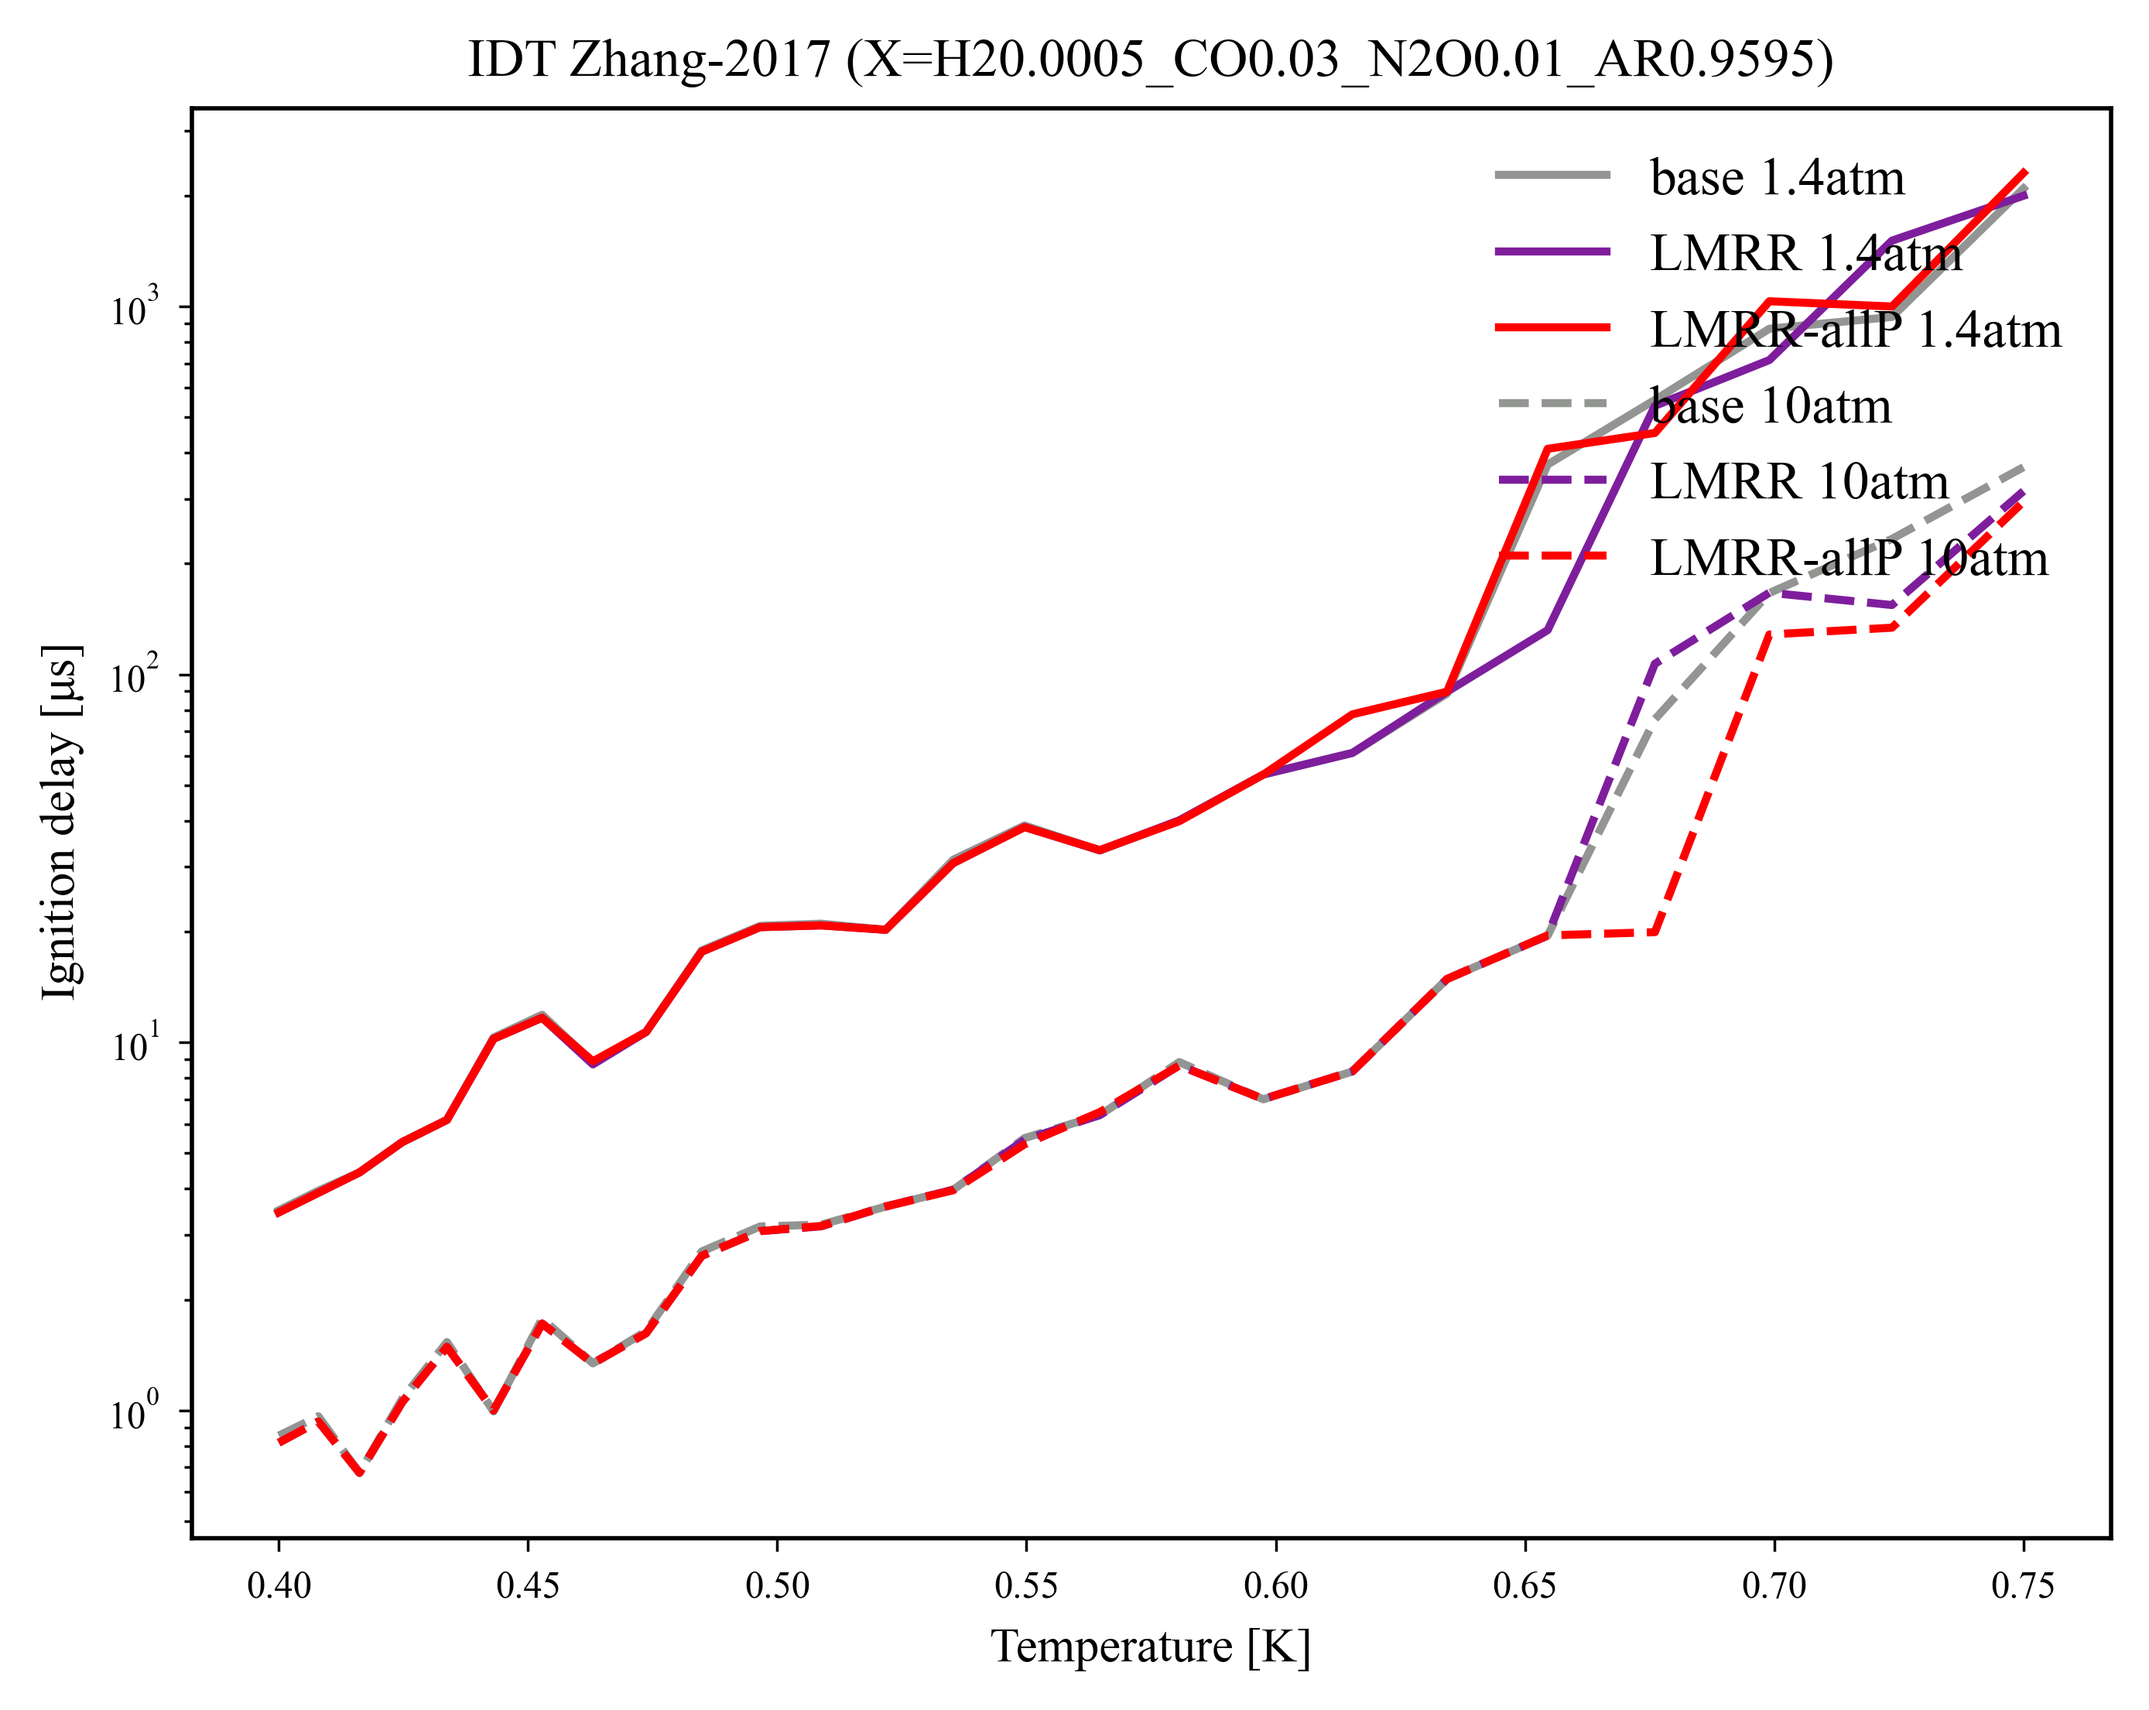
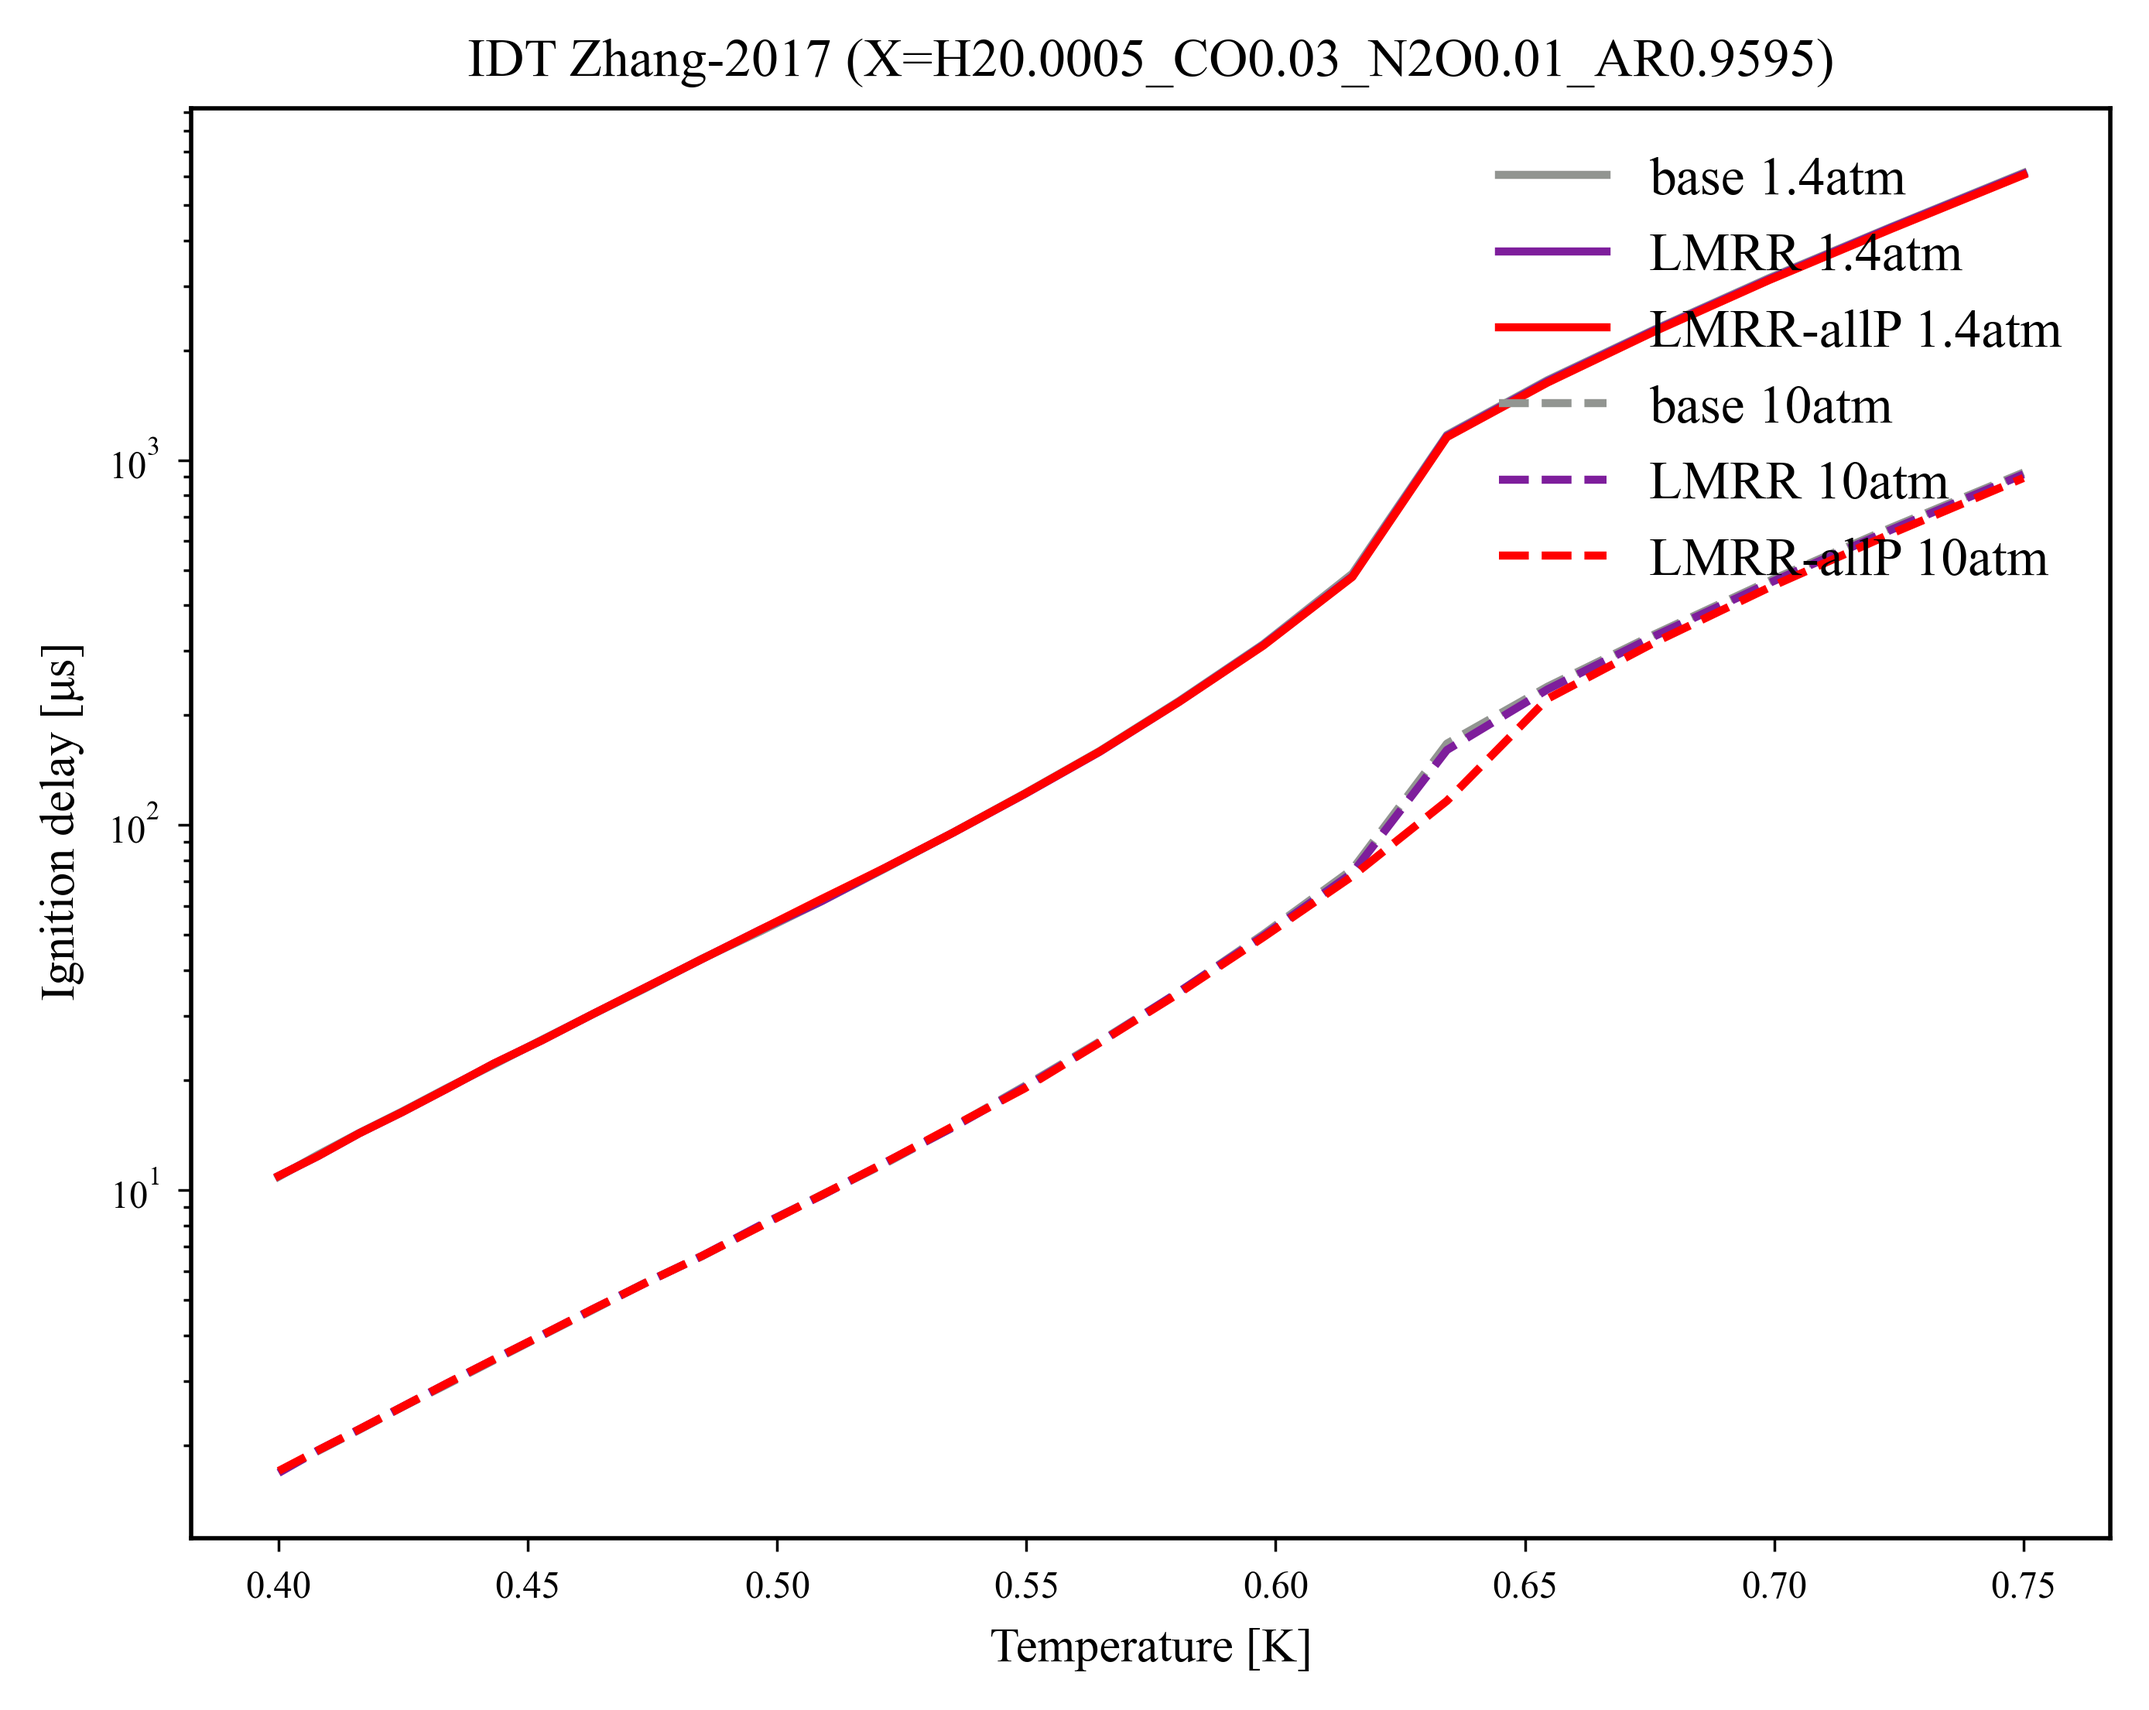
sort-of updated JSR, Shock Tube, and IDT (unfinished)

diff --git a/USSCI/simulateshocktubeShao_USSCI.py b/USSCI/simulateshocktubeShao_USSCI.py
@@ -6,6 +6,7 @@ import matplotlib.pyplot as plt
 import pandas as pd
 import argparse
 import matplotlib as mpl
+import numpy as np
 
 parser = argparse.ArgumentParser()
 parser.add_argument('--figwidth', type=float, help="figwidth = ")
@@ -85,50 +86,44 @@ models = {
     #             },
 }
 
-name = 'ShockTube_H2O_multimech'
-save_plots = True
+conditions = {
+    'Zhang-2017': {
+        # 'X': {'N2O':0.02, 'AR': 0.98},
+        'X': {'H2':0.0005, 'CO': 0.03, 'N2O': 0.01, 'AR': 0.9595},
+        'T': [11],
+        # 'P': [3,12],
+        'P': [1.4,10],
+        'phi_list': [0.063],
+                },
+}
 
-temps = [800,1100,1500,2000]
-pressures=[1,2,5,10]
-phi_list = [0.8,1.0,1.22,1.4]
-alpha_list = [1.0,0.8,0.6,0.4,0.2,0.0]
-a_st = [0.75,0.7,0.65,0.6,0.55,0.5]
+
+##Shao Mixture
+# # X_H2O2 = 1163e-6
+# # X_H2O = 1330e-6
+# # X_O2 = 665e-6
+# # X_CO2= 0.2*(1-X_H2O2-X_H2O-X_O2)
+# # X_Ar = 1-X_CO2
+# # X = {'H2O2':X_H2O2, 'H2O':X_H2O, 'O2':X_O2, 'CO2':X_CO2, 'AR':X_Ar}
+# #Ronney Mixture
+# x_fuel = (phi*(1/0.75)*0.21)/(1+phi*(1/0.75)*0.21)
+# x_o2 = 0.21*(1-x_fuel)
+# x_n2 = 0.79*(1-x_fuel)
 
 def cp(T,P,X,model):
   gas_stream = ct.Solution(model)
   gas_stream.TPX = T, P*1e5, {X:1}
   return gas_stream.cp_mole # [J/kmol/K]
 
-for phi in phi_list:
-    for T in temps:
-        for P in pressures:
-            fig, ax = plt.subplots(1, len(models.keys()),figsize=(args.figwidth, args.figheight))
-            for z, n in enumerate(models):
-                mech = n
-                # import matplotlib.ticker as ticker
-                # ax[z].xaxis.set_major_locator(ticker.MultipleLocator(50))
-                # ax[z].xaxis.set_major_formatter(ticker.StrMethodFormatter("{x:.0f}"))
-                # ax[z].yaxis.set_major_locator(ticker.MultipleLocator(0.03))
-                # ax[z].yaxis.set_major_formatter(ticker.StrMethodFormatter("{x:.2f}"))
-
-                # path="PCI-ESSCI/graph_reading"
-                # shao_data = pd.read_csv(path+'/7 SP H2O X vs t (Shock Tube) (Shao)/expData.csv')
-                # ax[z].plot(shao_data.iloc[:,0],shao_data.iloc[:,1]*100,marker='o',fillstyle='none',linestyle='none',color='k',markersize=msz,markeredgewidth=mw,label='Shao et al.')
-
-                for k,m in enumerate(models[n]):
+for z, n in enumerate(models):
+    for phi in conditions[n]['phi_list']:
+        for P in conditions[n]['P']:
+            # fig, ax = plt.subplots(1, len(models.keys()),figsize=(args.figwidth, args.figheight))
+            plt.figure()
+            for k,m in enumerate(models[n]):
+                for T in conditions[n]['T']:
                     gas = ct.Solution(list(models[n].values())[k])
-                    ##Shao Mixture
-                    # X_H2O2 = 1163e-6
-                    # X_H2O = 1330e-6
-                    # X_O2 = 665e-6
-                    # X_CO2= 0.2*(1-X_H2O2-X_H2O-X_O2)
-                    # X_Ar = 1-X_CO2
-                    # X = {'H2O2':X_H2O2, 'H2O':X_H2O, 'O2':X_O2, 'CO2':X_CO2, 'AR':X_Ar}
-                    #Ronney Mixture
-                    x_fuel = (phi*(1/0.75)*0.21)/(1+phi*(1/0.75)*0.21)
-                    x_o2 = 0.21*(1-x_fuel)
-                    x_n2 = 0.79*(1-x_fuel)
-                    gas.TPX = T, P*ct.one_atm, {'NH3':x_fuel,'O2':x_o2,'N2':x_n2}
+                    gas.TPX = T, P*ct.one_atm, conditions[n]['X']
                     r = ct.Reactor(contents=gas,energy="on")
                     reactorNetwork = ct.ReactorNet([r])
                     timeHistory = ct.SolutionArray(gas, extra=['t'])
@@ -140,19 +135,12 @@ for phi in phi_list:
                         if counter % 10 == 0:
                             timeHistory.append(r.thermo.state, t=t)
                         counter += 1
-                    ax[z].plot(timeHistory.t*1e6, timeHistory('H2O').X*100, color=colors[k],linestyle=lstyles[k],linewidth=lw,label=m)
-
-
-                ax[z].legend(fontsize=lgdfsz,handlelength=lgdw, frameon=False, loc='lower right')
-                ax[z].tick_params(axis='both', direction="in")#, labelsize=7)
-                # ax[z].set_xlim([0.0001,299.999])
-                # ax[z].set_ylim([0.120001,0.269999])
-                ax[z].set_title(f"{mech} ({T}K,{P}atm,{phi}phi)")
-
-            ax[0].set_ylabel(r'$\rm H_2O$ mole fraction [%]')
-            ax[2].set_xlabel(r'Time [$\mathdefault{\mu s}$]')
-
-            path=f'USSCI/figures/{args.date}/shock-tube'
-            os.makedirs(path,exist_ok=True)
-            if save_plots == True:
-                plt.savefig(path+f'/{T}K_{P}atm_{phi}phi.png', dpi=500, bbox_inches='tight')
+                    plt.plot(timeHistory.t*1e6, timeHistory('H2O').X*100, color=colors[k],linestyle=lstyles[k],linewidth=lw,label=f'{m} {P}atm')
+                plt.legend(fontsize=lgdfsz,handlelength=lgdw, frameon=False, loc='lower right')
+                plt.title(f"{n} ({T}K,{P}atm,{phi}phi)")
+                plt.set_ylabel(r'$\rm H_2O$ mole fraction [%]')
+                plt.set_xlabel(r'Time [$\mathdefault{\mu s}$]')
+                X_str = "_".join(f"{key}{value}" for key, value in conditions[n]['X'].items())
+                path=f'USSCI/figures/{args.date}/shock-tube'
+                os.makedirs(path,exist_ok=True)
+                plt.savefig(path+f'/{n}_{X_str}.png', dpi=500, bbox_inches='tight')

diff --git a/USSCI/simulateJSR_H2O_USSCI.py b/USSCI/simulateJSR_H2O_USSCI.py
@@ -62,36 +62,36 @@ colors = ["xkcd:purple","xkcd:teal","k"]*3
 # lstyles = ["solid"]*3 + ["dashed"]*3 + ["dotted"]*3
 
 models = {
-    'Alzueta-2023': {
-        # 'base': r'chemical_mechanisms/Alzueta-2023/alzuetamechanism.yaml',
-        'LMRR': f'USSCI/factory_mechanisms/{args.date}/alzuetamechanism_LMRR.yaml',
-        'LMRR-allP': f'USSCI/factory_mechanisms/{args.date}/alzuetamechanism_LMRR_allP.yaml',
-                },
-    'Mei-2019': {
-        # 'base': r'chemical_mechanisms/Mei-2019/mei-2019.yaml',
-        'LMRR': f'USSCI/factory_mechanisms/{args.date}/mei-2019_LMRR.yaml',
-        'LMRR-allP': f'USSCI/factory_mechanisms/{args.date}/mei-2019_LMRR_allP.yaml',
-                },
+    # 'Alzueta-2023': {
+    #     # 'base': r'chemical_mechanisms/Alzueta-2023/alzuetamechanism.yaml',
+    #     'LMRR': f'USSCI/factory_mechanisms/{args.date}/alzuetamechanism_LMRR.yaml',
+    #     'LMRR-allP': f'USSCI/factory_mechanisms/{args.date}/alzuetamechanism_LMRR_allP.yaml',
+    #             },
+    # 'Mei-2019': {
+    #     # 'base': r'chemical_mechanisms/Mei-2019/mei-2019.yaml',
+    #     'LMRR': f'USSCI/factory_mechanisms/{args.date}/mei-2019_LMRR.yaml',
+    #     'LMRR-allP': f'USSCI/factory_mechanisms/{args.date}/mei-2019_LMRR_allP.yaml',
+    #             },
     'Zhang-2017': {
         # 'base': r"chemical_mechanisms/Zhang-2017/zhang-2017.yaml",
         'LMRR': f"USSCI/factory_mechanisms/{args.date}/zhang-2017_LMRR.yaml",
         'LMRR-allP': f"USSCI/factory_mechanisms/{args.date}/zhang-2017_LMRR_allP.yaml",
                 },
-    'Otomo-2018': {
-        # 'base': r"chemical_mechanisms/Otomo-2018/otomo-2018.yaml",
-        'LMRR': f"USSCI/factory_mechanisms/{args.date}/otomo-2018_LMRR.yaml",
-        'LMRR-allP': f"USSCI/factory_mechanisms/{args.date}/otomo-2018_LMRR_allP.yaml",
-                },
-    'Stagni-2020': {
-        # 'base': r"chemical_mechanisms/Stagni-2020/stagni-2020.yaml",
-        'LMRR': f"USSCI/factory_mechanisms/{args.date}/stagni-2020_LMRR.yaml",
-        'LMRR-allP': f"USSCI/factory_mechanisms/{args.date}/stagni-2020_LMRR_allP.yaml",
-                },
-    # 'Han-2021': {
-    #     'base': r"chemical_mechanisms/Han-2021/han-2021.yaml",
-    #     # 'LMRR': f"USSCI/factory_mechanisms/{args.date}/han-2021_LMRR.yaml",
-    #     # 'LMRR-allP': f"USSCI/factory_mechanisms/{args.date}/han-2021_LMRR_allP.yaml",
+    # 'Otomo-2018': {
+    #     # 'base': r"chemical_mechanisms/Otomo-2018/otomo-2018.yaml",
+    #     'LMRR': f"USSCI/factory_mechanisms/{args.date}/otomo-2018_LMRR.yaml",
+    #     'LMRR-allP': f"USSCI/factory_mechanisms/{args.date}/otomo-2018_LMRR_allP.yaml",
     #             },
+    # 'Stagni-2020': {
+    #     # 'base': r"chemical_mechanisms/Stagni-2020/stagni-2020.yaml",
+    #     'LMRR': f"USSCI/factory_mechanisms/{args.date}/stagni-2020_LMRR.yaml",
+    #     'LMRR-allP': f"USSCI/factory_mechanisms/{args.date}/stagni-2020_LMRR_allP.yaml",
+    #             },
+    # # 'Han-2021': {
+    # #     'base': r"chemical_mechanisms/Han-2021/han-2021.yaml",
+    # #     # 'LMRR': f"USSCI/factory_mechanisms/{args.date}/han-2021_LMRR.yaml",
+    # #     # 'LMRR-allP': f"USSCI/factory_mechanisms/{args.date}/han-2021_LMRR_allP.yaml",
+    # #             },
 }
 name = 'JSR_H2O_multimech'
 save_plots = True
@@ -147,14 +147,14 @@ for z, n in enumerate(models):
     ##############################################################################################################################
 
 
-    path="PCI-ESSCI/graph_reading/1 JSR H2O/"
+    # path="PCI-ESSCI/graph_reading/1 JSR H2O/"
     
-    T_20_data = pd.read_csv(path+'JSR_T_H2O_20_data.csv') 
-    O2_20_data = pd.read_csv(path+'JSR_O2_H2O_20_data.csv') 
-    H2_20_data = pd.read_csv(path+'JSR_H2_H2O_20_data.csv') 
-    ax[0,z].plot(T_20_data.iloc[:, 0],T_20_data.iloc[:, 1],marker='o',fillstyle='none',linestyle='none',color='k',markersize=msz,markeredgewidth=mw, label="Sabia et al.")
-    ax[1,z].plot(O2_20_data.iloc[:, 0],O2_20_data.iloc[:, 1],marker='o',fillstyle='none',linestyle='none',color='k',markersize=msz,markeredgewidth=mw,label="Sabia et al.")
-    ax[2,z].plot(H2_20_data.iloc[:, 0],H2_20_data.iloc[:, 1],marker='o',fillstyle='none',linestyle='none',color='k',markersize=msz,markeredgewidth=mw, label="Sabia et al.")
+    # T_20_data = pd.read_csv(path+'JSR_T_H2O_20_data.csv') 
+    # O2_20_data = pd.read_csv(path+'JSR_O2_H2O_20_data.csv') 
+    # H2_20_data = pd.read_csv(path+'JSR_H2_H2O_20_data.csv') 
+    # ax[0,z].plot(T_20_data.iloc[:, 0],T_20_data.iloc[:, 1],marker='o',fillstyle='none',linestyle='none',color='k',markersize=msz,markeredgewidth=mw, label="Sabia et al.")
+    # ax[1,z].plot(O2_20_data.iloc[:, 0],O2_20_data.iloc[:, 1],marker='o',fillstyle='none',linestyle='none',color='k',markersize=msz,markeredgewidth=mw,label="Sabia et al.")
+    # ax[2,z].plot(H2_20_data.iloc[:, 0],H2_20_data.iloc[:, 1],marker='o',fillstyle='none',linestyle='none',color='k',markersize=msz,markeredgewidth=mw, label="Sabia et al.")
 
 
     for k,m in enumerate(models[n]):

diff --git a/USSCI/simulateIDT_Shao_USSCI.py b/USSCI/simulateIDT_Shao_USSCI.py
@@ -101,8 +101,8 @@ lstyles = ["solid","dashed","dotted"]
 
 def ignitionDelay(states, species):
     # i_ign = np.gradient(states(species).Y.T[0]).argmax()
-    i_ign = np.gradient(states(species).Y.T[0]).argmax()
-    # i_ign = states(species).Y.T[0].argmax()
+    # i_ign = np.gradient(states(species).Y.T[0]).argmax()
+    i_ign = states(species).Y.T[0].argmax()
     # print(np.gradient(states(species).Y.T[0]).argmax())
     return states.t[i_ign]
 
